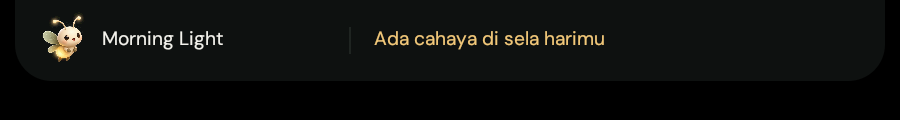
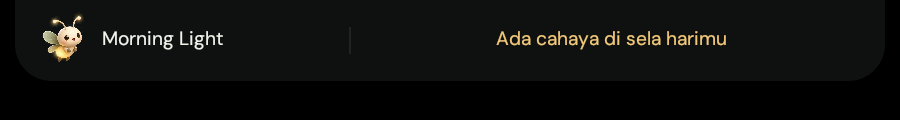
fix: center lyrics in collapsed music panel

Changed region(s): [[0.4044, 0.25, 0.8089, 0.4]]

diff --git a/src/app.rs b/src/app.rs
@@ -376,7 +376,7 @@ impl NotchApp {
             pos2(origin.x + 58.0, center_y - 10.0),
             vec2(title_width, 22.0),
         );
-        paint_line(ui.painter(), text_rect, &label, 13.0, TEXT);
+        paint_line(ui.painter(), text_rect, &label, 13.0, TEXT, Align::Min);
         if music {
             let divider = text_rect.right() + 15.0;
             ui.painter().line_segment(
@@ -398,6 +398,7 @@ impl NotchApp {
                 &self.active_line,
                 13.0,
                 AMBER.gamma_multiply(0.4 + 0.6 * fade),
+                Align::Center,
             );
         } else {
             let trailing = self
@@ -1377,7 +1378,14 @@ fn semibold(size: f32) -> FontId {
     FontId::new(size, egui::FontFamily::Name("semibold".into()))
 }
 
-fn paint_line(painter: &egui::Painter, rect: Rect, text: &str, size: f32, color: Color32) {
+fn paint_line(
+    painter: &egui::Painter,
+    rect: Rect,
+    text: &str,
+    size: f32,
+    color: Color32,
+    align: Align,
+) {
     let mut job = egui::text::LayoutJob::simple(
         text.replace(['\n', '\r'], " "),
         FontId::proportional(size),
@@ -1387,9 +1395,14 @@ fn paint_line(painter: &egui::Painter, rect: Rect, text: &str, size: f32, color:
     job.wrap.max_rows = 1;
     job.wrap.break_anywhere = true;
     let galley = painter.layout_job(job);
+    let x = if align == Align::Center {
+        rect.left() + ((rect.width() - galley.size().x) * 0.5).max(0.0)
+    } else {
+        rect.left()
+    };
     painter
         .with_clip_rect(rect.intersect(painter.clip_rect()))
-        .galley(rect.min, galley, color);
+        .galley(pos2(x, rect.top()), galley, color);
 }
 
 fn lyric_label(ui: &mut egui::Ui, text: &str, size: f32, color: Color32, strong: bool) {

diff --git a/PRODUCT.md b/PRODUCT.md
@@ -21,7 +21,7 @@ The Mac-notch reference establishes the top-center silhouette. The approved Sela
 ## Capabilities and Constraints
 Four native pages provide media transport, a focus timer, live CPU/RAM/battery, and settings. Tray recovery, a global shortcut, monitor selection, top offset, hover opening, reduced motion, completion sound, local settings, and single-instance behavior remain part of the overlay. The Indonesian UI follows the user's language. All repository README.md files must be written in English, as requested by the user. Exact interface labels may be quoted to make the instructions actionable.
 
-The approved Canvas music layout pairs a player with contextual lyrics. Expanded media uses 600 × 370 logical points; focus, system, and settings use 464 × 370. With a track present and lyrics enabled, the compact music pill is 580 × 54 and shows the title beside one current lyric. Idle, active focus, or lyrics-disabled compact mode uses 324 × 48. Geometry and motion are documented in `DESIGN.md`.
+The approved Canvas music layout pairs a player with contextual lyrics. Expanded media uses 600 × 370 logical points; focus, system, and settings use 464 × 370. With a track present and lyrics enabled, the compact music pill is 580 × 54 and shows a left-aligned title beside one lyric centered within the right-hand lyric area, as requested by the user. Expanded lyrics remain left-aligned. Idle, active focus, or lyrics-disabled compact mode uses 324 × 48. Geometry and motion are documented in `DESIGN.md`.
 
 When lyrics are enabled, a background worker sends track title, artist, and available duration over HTTPS to LRCLIB. Settings disclose this and provide a lyrics toggle. Local results persist for 30 days; not-found results persist for one day. Synced, unsynced, instrumental, loading, error, missing-metadata, and not-found states are distinct. A retry bypasses the cache. Stale results cannot replace a newer selection. No account is required.
 

diff --git a/README.md b/README.md
@@ -23,11 +23,11 @@ Charcoal, sage, and amber keep the panel quiet. Width and height use continuous 
 
 ## Music and lyrics
 
-<p align="center"><img src="docs/screenshots/sela-compact-150.png" width="600" alt="Collapsed notch with the song title on the left and exactly one lyric line on the right"></p>
+<p align="center"><img src="docs/screenshots/sela-compact-150.png" width="600" alt="Collapsed notch with a left-aligned song title and one centered lyric line in the right-hand area"></p>
 
 - **Windows media controls:** metadata, playback position, play/pause, previous, and next through Windows System Media Transport Controls. Buttons follow the player's capabilities.
 - **Synchronized lyrics:** the active line is highlighted in amber; the expanded panel shows the previous and next lines. Lyrics follow the player's position, including pauses and position changes.
-- **Stable alignment:** lyrics are left-aligned in both views. In the collapsed notch, the lyric begins at a fixed left edge to the right of the song title and divider.
+- **Lyric alignment:** the collapsed notch centers the current lyric within the area to the right of the song title and divider. Expanded lyrics remain left-aligned.
 - **Readable text:** long titles and lyrics truncate with an ellipsis; hover to read the full text. Lyrics without timestamps appear as plain text in the expanded panel.
 - **Clear states:** loading, connection errors, instrumental tracks, incomplete metadata, and unavailable lyrics have their own messages. Results for an earlier song cannot replace the current song's lyrics.
 

diff --git a/DESIGN.md b/DESIGN.md
@@ -212,7 +212,7 @@ Expanded views share content insets, a header, four equal-width tabs separated b
 
 The Canvas media body is 552 points wide after the shell insets. The player occupies 226 points, the lyrics occupy 298, and the columns are separated by 28. A thin tonal divider sits midway in the gap. Both regions allocate 208 points of body height. The player uses a sage note tile, truncated title and artist, playback label, progress, timestamps, and transport controls. Synced lyrics show previous, current, and next lines. Each lyric allocates a full-width row and paints one clipped line at the shared fixed left edge; its tooltip and semantic label retain the full text. Plain unsynced lyrics use a vertical scroll area.
 
-Compact music keeps the title in a clipped left region, separated from the single amber line by a short divider. It retains the music geometry while paused. An active or paused focus session takes compact priority. The idle pill uses the local clock when there is no media title.
+Compact music keeps the title left-aligned in a clipped left region, separated from the single amber line by a short divider. Center the lyric horizontally within its own right-hand region after single-line truncation; preserve clipping and the line-change fade/offset. It retains the music geometry while paused. An active or paused focus session takes compact priority. The idle pill uses the local clock when there is no media title.
 
 ## Elevation & Depth
 

diff --git a/docs/VALIDATION.md b/docs/VALIDATION.md
@@ -39,6 +39,10 @@ AccessKit diaktifkan dalam build agar nama dan peran widget diekspor ke aksesibi
 
 Review terpisah menemukan alignment lirik dan fitur ekspor aksesibilitas yang belum aktif. Kedua perbaikan dinilai **resolved**, dengan disposition **ship** pada cakupan implementasi/pratinjau native yang diperiksa. Verdict terakhir hanya memeriksa dua koreksi itu, bukan sertifikasi integrasi Windows. Capture tersinkron, teks panjang, dan fallback diperbarui pada 100%/150%; `cargo tree` mengonfirmasi AccessKit dan executable mengimpor `uiautomationcore.dll`. Pemeriksaan statis import DLL menunjukkan hanya DLL sistem Windows, tanpa DLL MinGW terpisah.
 
+## Penyesuaian lirik ringkas — 25 Oktober 2026
+
+Lirik saat panel ditutup kini rata tengah di area kanan judul; judul dan lirik pada panel terbuka tetap rata kiri. Capture native Linux pada 100%/150% memeriksa teks pendek, teks panjang dengan elipsis, dan pesan lirik belum tersedia. Titik tengah piksel teks berada dalam 0,5 physical pixel dari titik tengah area lirik pada enam capture; tidak ada teks melewati pembatas. Clipping, fade 240 ms, dan pergeseran vertikal tetap dipertahankan. `cargo fmt`, `cargo check`, build Linux, dan Clippy lulus.
+
 ## Checklist runtime Windows yang belum dijalankan
 
 - [ ] Posisi atas-tengah, transparansi, tray Pijar, dan tidak adanya tombol taskbar.
